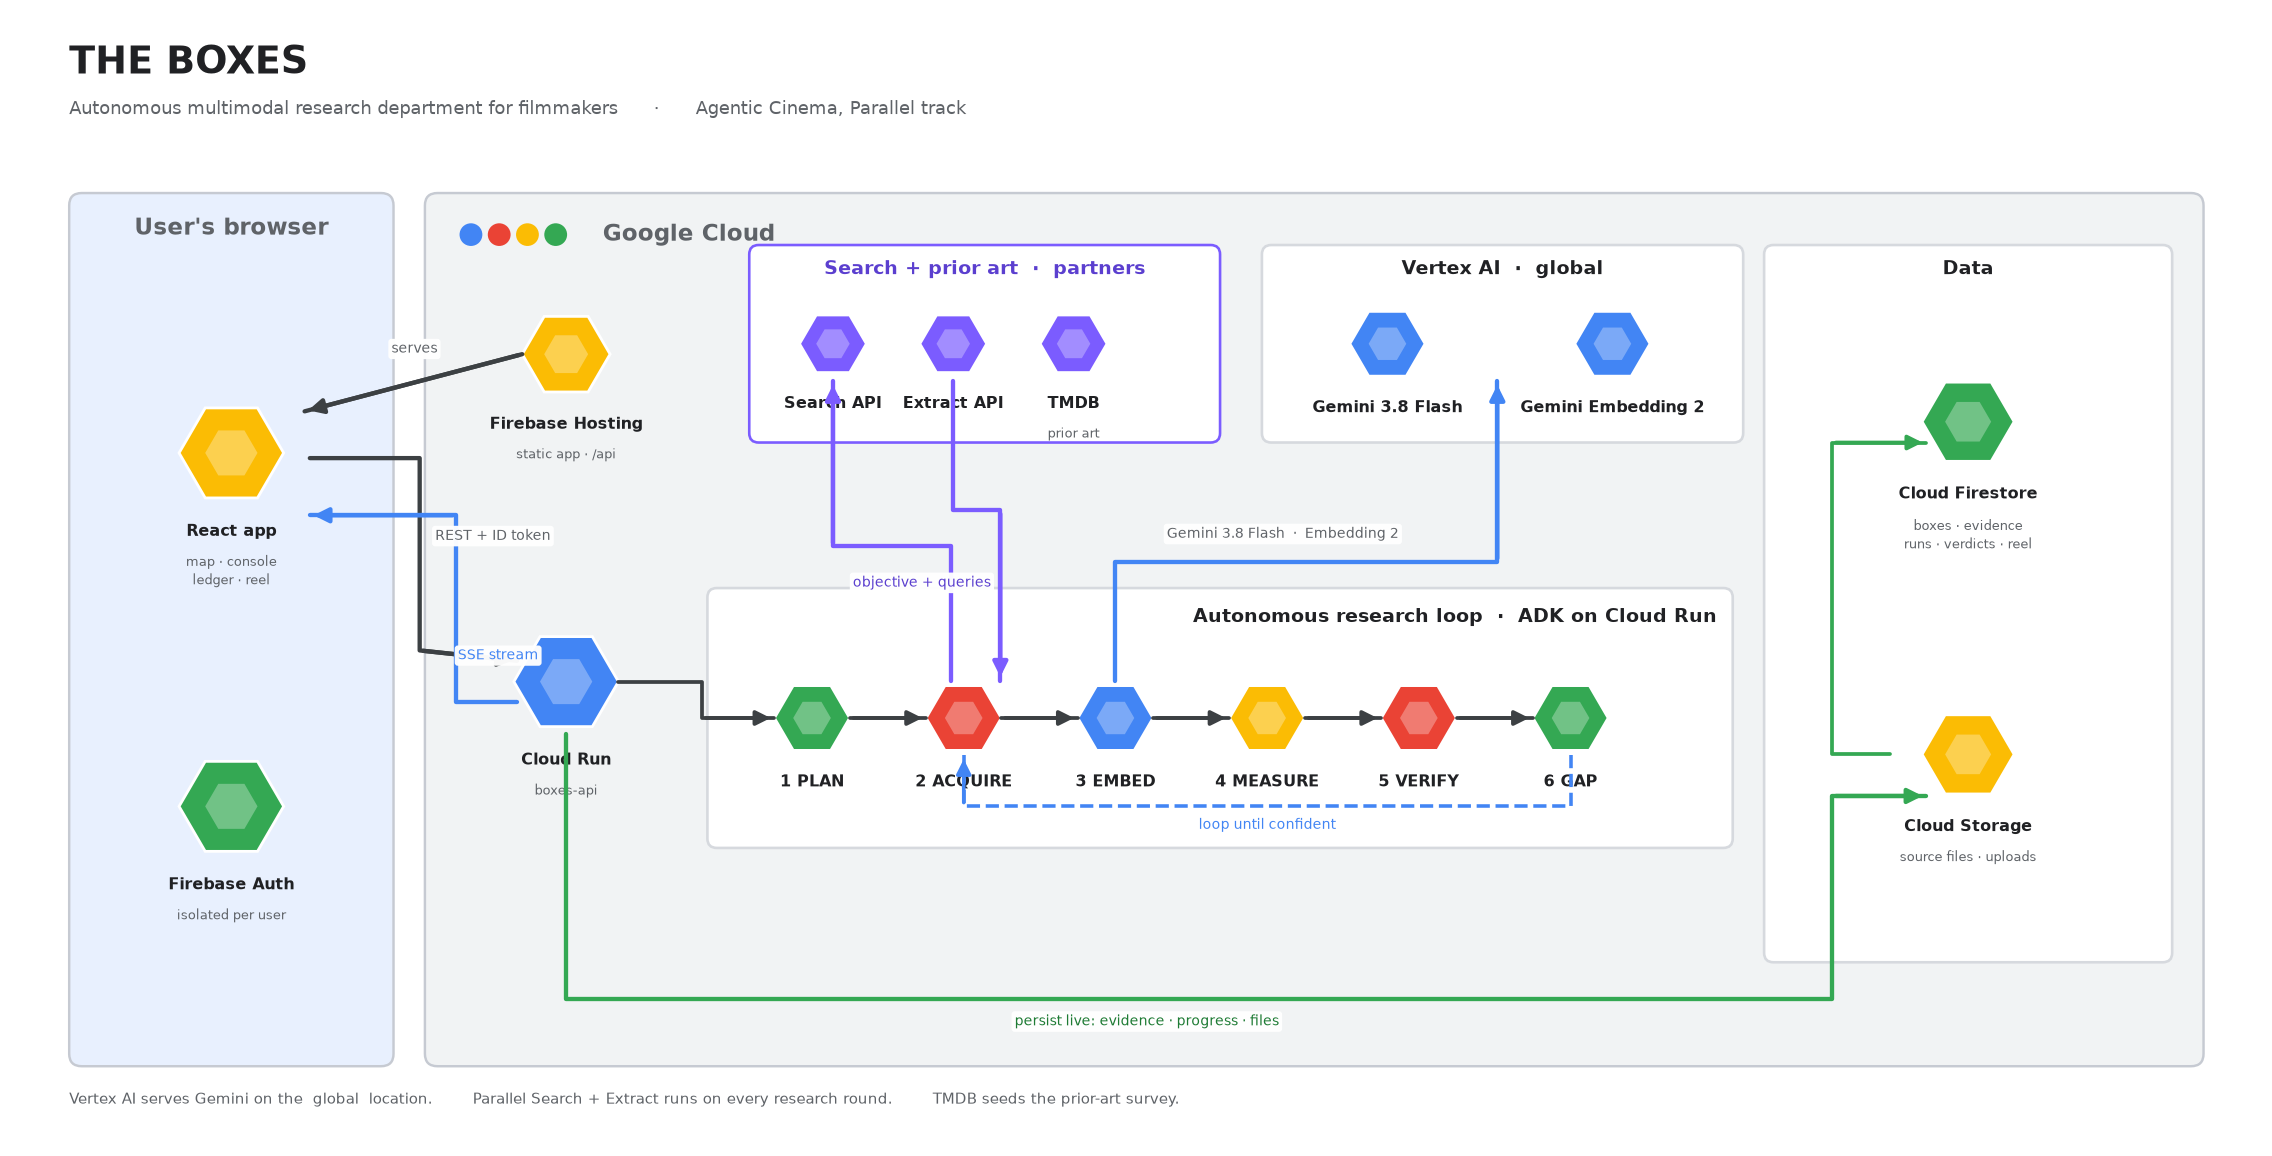
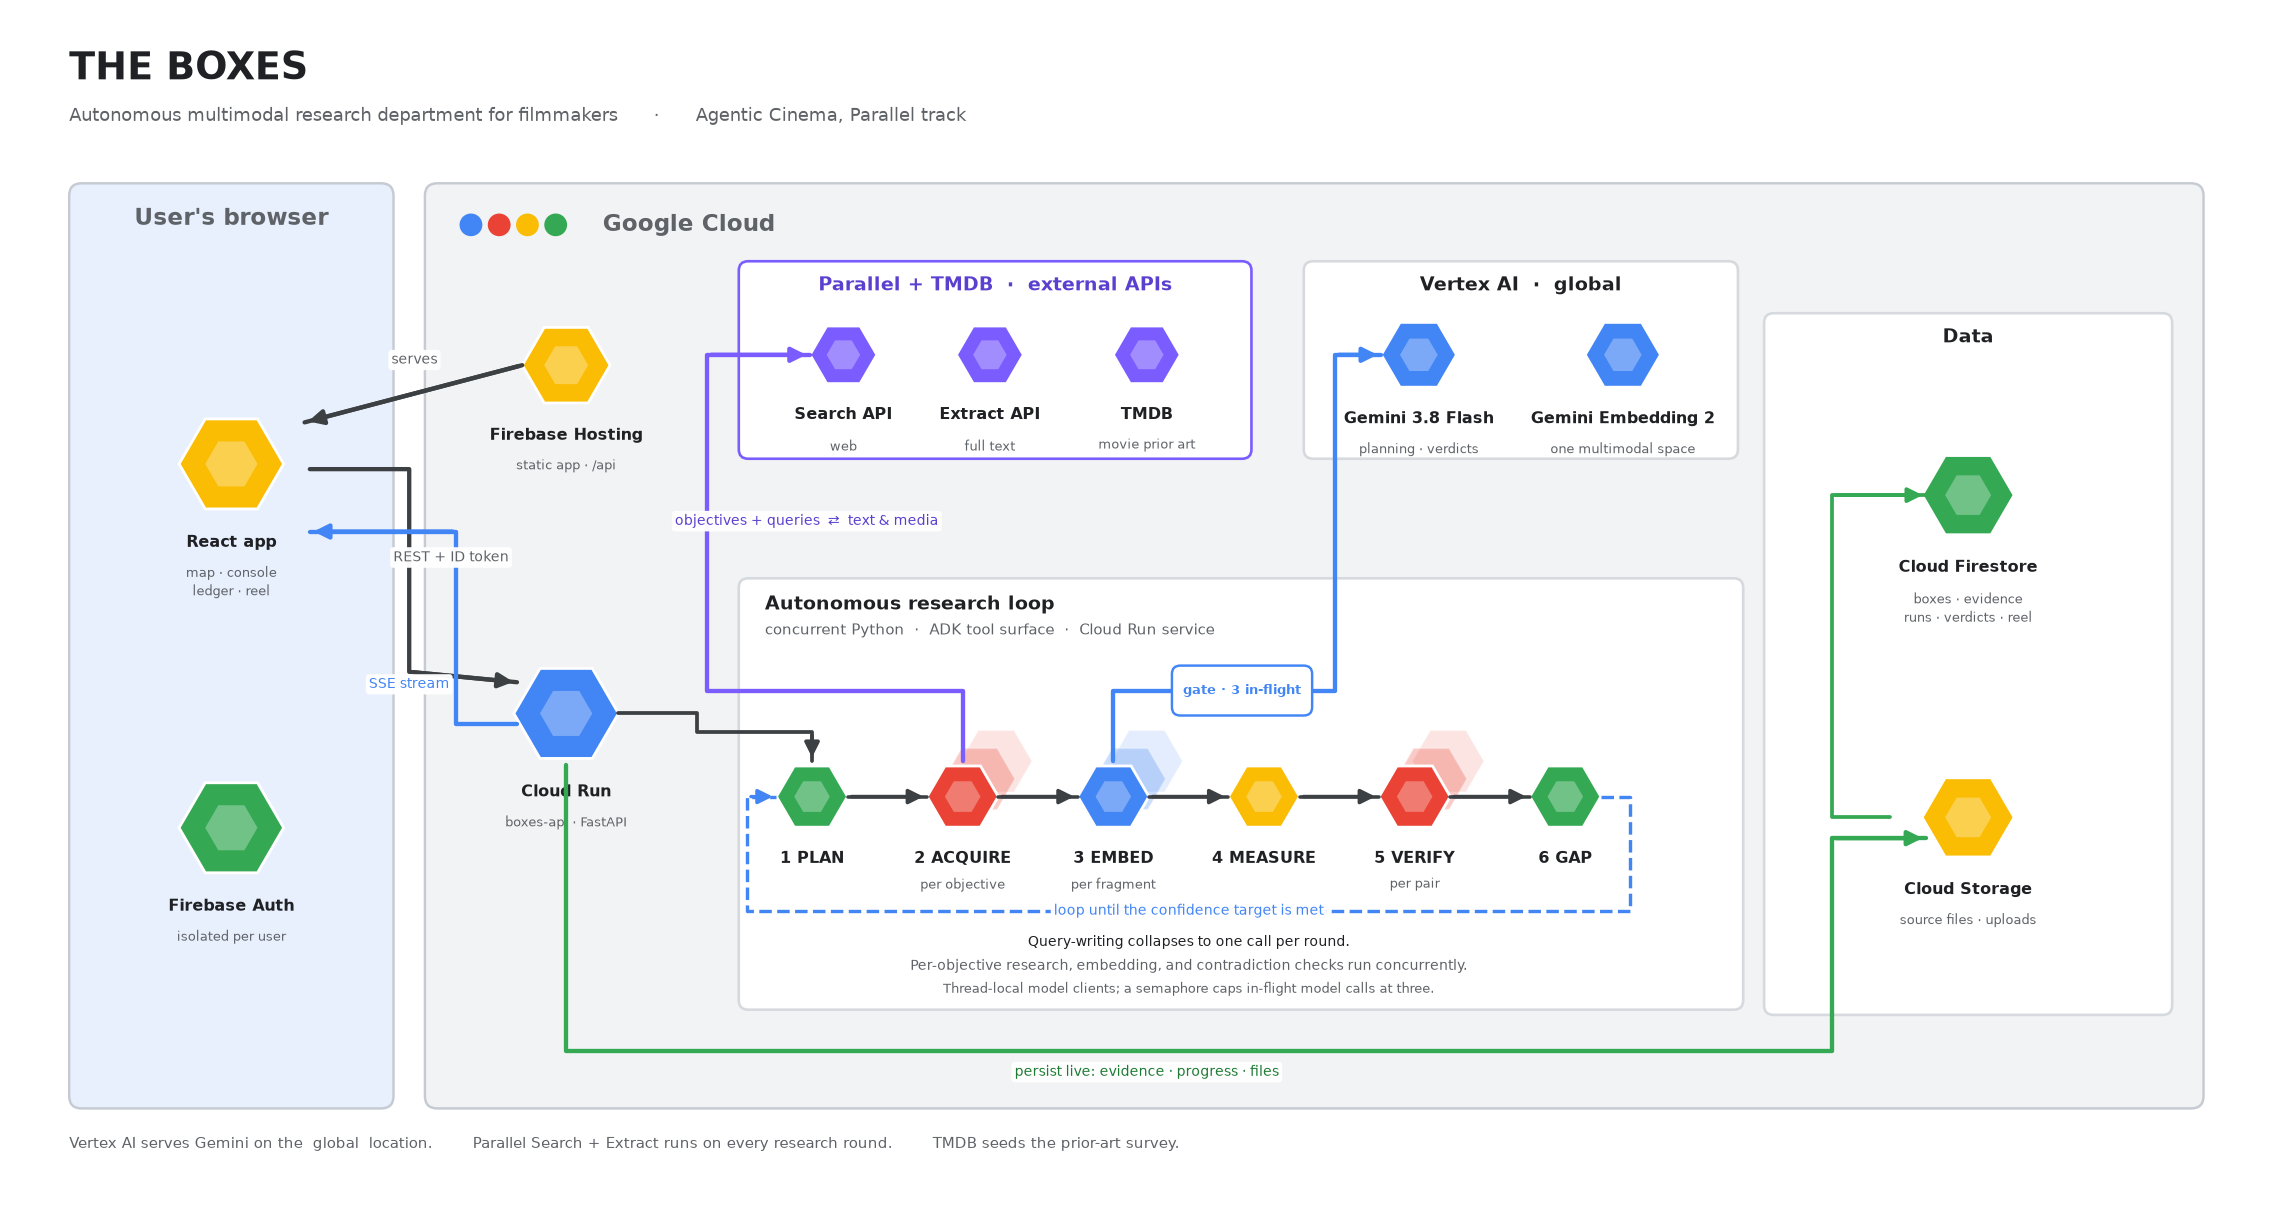
Architecture diagram: TMDB as an external API, and the concurrent harness
- External-APIs cluster now reads "Parallel + TMDB", with TMDB tiled
  alongside Search and Extract and captioned "movie prior art".
- The loop strip shows the concurrency edge: stacked hexes behind
  ACQUIRE / EMBED / VERIFY for per-objective, per-fragment and per-pair
  fan-out, a "gate . 3 in-flight" pill on the Vertex wire for the
  semaphore, and a three-line note (batched query call, concurrent
  research/embedding/verification, thread-local clients).
- Rerouted every riser and label so no arrow crosses text; widened the
  canvas for the added rows. Same content the Devpost "How we built it"
  section describes.

diff --git a/docs/architecture.py b/docs/architecture.py
@@ -11,8 +11,8 @@ PURPLE = "#7B5CFF"
 INK, SUB, WIRE = "#202124", "#5F6368", "#3C4043"
 Z_BLUE, Z_GREY = "#E8F0FE", "#F1F3F4"
 
-fig, ax = plt.subplots(figsize=(21, 10.4), dpi=135)
-ax.set_xlim(0, 21); ax.set_ylim(0, 10.4); ax.axis("off")
+fig, ax = plt.subplots(figsize=(21, 11.0), dpi=135)
+ax.set_xlim(0, 21); ax.set_ylim(0, 11.0); ax.axis("off")
 fig.patch.set_facecolor("white")
 
 
@@ -31,7 +31,8 @@ def zone(x, y, w, h, title, fill, dots=False):
 def cluster(x, y, w, h, title, ec="#D6D9DE", tc=INK):
     ax.add_patch(FancyBboxPatch((x, y), w, h, boxstyle="round,pad=0,rounding_size=0.09",
                                 fc="white", ec=ec, lw=1.4, zorder=3))
-    ax.text(x + w / 2, y + h - 0.28, title, fontsize=10, color=tc, weight="bold", ha="center", zorder=4)
+    if title:
+        ax.text(x + w / 2, y + h - 0.28, title, fontsize=10, color=tc, weight="bold", ha="center", zorder=4)
 
 
 def tile(cx, cy, label, cap=None, color=BLUE, r=0.42):
@@ -43,6 +44,14 @@ def tile(cx, cy, label, cap=None, color=BLUE, r=0.42):
     if cap:
         ax.text(cx, cy - r - 0.46, cap, fontsize=7.0, color=SUB, ha="center", va="top", zorder=7,
                 linespacing=1.4)
+
+
+def ghost(cx, cy, color, r=0.34):
+    """Two translucent hexes stacked behind a tile: this stage fans out across
+    many concurrent workers, one per objective, fragment, or evidence pair."""
+    for k, a in ((2, 0.14), (1, 0.28)):
+        ax.add_patch(RegularPolygon((cx + k * 0.16, cy + k * 0.17), 6, radius=r, orientation=np.pi / 2,
+                                    fc=color, ec="white", lw=1.0, alpha=a, zorder=5))
 
 
 def wire(pts, color=WIRE, lw=2.3, dash=False, text=None, tp=None, tcol=None):
@@ -57,73 +66,96 @@ def wire(pts, color=WIRE, lw=2.3, dash=False, text=None, tp=None, tcol=None):
                 bbox=dict(boxstyle="round,pad=0.22", fc="white", ec="none", alpha=0.97))
 
 
-ax.text(0.3, 10.05, "THE BOXES", fontsize=20, weight="bold", color=INK)
-ax.text(0.3, 9.66, "Autonomous multimodal research department for filmmakers      ·      Agentic Cinema, Parallel track",
+ax.text(0.3, 10.6, "THE BOXES", fontsize=20, weight="bold", color=INK)
+ax.text(0.3, 10.2, "Autonomous multimodal research department for filmmakers      ·      Agentic Cinema, Parallel track",
         fontsize=9.5, color=SUB)
 
-# ── Zone: browser ─────────────────────────────────────────────────────
-zone(0.3, 0.5, 3.1, 8.4, "User's browser", Z_BLUE)
-tile(1.85, 6.4, "React app", "map · console\nledger · reel", color=YELLOW, r=0.5)
-tile(1.85, 3.0, "Firebase Auth", "isolated per user", color=GREEN, r=0.5)
+# -- Zone: browser -----------------------------------------------------
+zone(0.3, 0.7, 3.1, 8.9, "User's browser", Z_BLUE)
+tile(1.85, 6.9, "React app", "map · console\nledger · reel", color=YELLOW, r=0.5)
+tile(1.85, 3.4, "Firebase Auth", "isolated per user", color=GREEN, r=0.5)
 
-# ── Zone: Google Cloud ───────────────────────────────────────────────
-zone(3.7, 0.5, 17.0, 8.4, "Google Cloud", Z_GREY, dots=True)
+# -- Zone: Google Cloud ---------------------------------------------
+zone(3.7, 0.7, 17.0, 8.9, "Google Cloud", Z_GREY, dots=True)
 
 # left column: Hosting + Cloud Run
-tile(5.05, 7.35, "Firebase Hosting", "static app · /api", color=YELLOW, r=0.42)
-tile(5.05, 4.2, "Cloud Run", "boxes-api", color=BLUE, r=0.5)
+tile(5.05, 7.85, "Firebase Hosting", "static app · /api", color=YELLOW, r=0.42)
+tile(5.05, 4.5, "Cloud Run", "boxes-api · FastAPI", color=BLUE, r=0.5)
 
-# top strip: Parallel + TMDB (partners) + Vertex AI
-cluster(6.8, 6.5, 4.5, 1.9, "Search + prior art  ·  partners", ec=PURPLE, tc="#5B3FCF")
-tile(7.6, 7.45, "Search API", color=PURPLE, r=0.32)
-tile(8.75, 7.45, "Extract API", color=PURPLE, r=0.32)
-tile(9.9, 7.45, "TMDB", "prior art", color=PURPLE, r=0.32)
-cluster(11.7, 6.5, 4.6, 1.9, "Vertex AI  ·  global")
-tile(12.9, 7.45, "Gemini 3.8 Flash", color=BLUE, r=0.36)
-tile(15.05, 7.45, "Gemini Embedding 2", color=BLUE, r=0.36)
+# top strip: external APIs + Vertex AI
+cluster(6.7, 6.95, 4.9, 1.9, "Parallel + TMDB  ·  external APIs", ec=PURPLE, tc="#5B3FCF")
+tile(7.7, 7.95, "Search API", "web", color=PURPLE, r=0.32)
+tile(9.1, 7.95, "Extract API", "full text", color=PURPLE, r=0.32)
+tile(10.6, 7.95, "TMDB", "movie prior art", color=PURPLE, r=0.32)
+cluster(12.1, 6.95, 4.15, 1.9, "Vertex AI  ·  global")
+tile(13.2, 7.95, "Gemini 3.8 Flash", "planning · verdicts", color=BLUE, r=0.36)
+tile(15.15, 7.95, "Gemini Embedding 2", "one multimodal space", color=BLUE, r=0.36)
 
-# middle strip: the loop  (title right-aligned, clear of the upward arrows)
-cluster(6.4, 2.6, 9.8, 2.5, "")
-ax.text(16.05, 4.82, "Autonomous research loop  ·  ADK on Cloud Run", fontsize=10, color=INK,
-        weight="bold", ha="right", va="center", zorder=4)
-seq = [("1 PLAN", GREEN), ("2 ACQUIRE", RED), ("3 EMBED", BLUE),
-       ("4 MEASURE", YELLOW), ("5 VERIFY", RED), ("6 GAP", GREEN)]
-lx0, dx, ly = 7.4, 1.45, 3.85
+# -- the loop -----------------------------------------------------
+cluster(6.7, 1.65, 9.6, 4.15, "")
+ax.text(6.95, 5.5, "Autonomous research loop", fontsize=10, color=INK, weight="bold", ha="left", zorder=4)
+ax.text(6.95, 5.26, "concurrent Python  ·  ADK tool surface  ·  Cloud Run service",
+        fontsize=8, color=SUB, ha="left", zorder=4)
+
+seq = [("1 PLAN", GREEN, None), ("2 ACQUIRE", RED, "per objective"), ("3 EMBED", BLUE, "per fragment"),
+       ("4 MEASURE", YELLOW, None), ("5 VERIFY", RED, "per pair"), ("6 GAP", GREEN, None)]
+lx0, dx, ly, R = 7.4, 1.44, 3.7, 0.34
 cxs = [lx0 + i * dx for i in range(6)]
-for cx, (t, col) in zip(cxs, seq):
-    tile(cx, ly, t, color=col, r=0.36)
+mid = (cxs[0] + cxs[-1]) / 2
+for cx, (t, col, sub) in zip(cxs, seq):
+    if sub:
+        ghost(cx, ly, col, r=R)
+    tile(cx, ly, t, color=col, r=R)
+    if sub:
+        ax.text(cx, ly - R - 0.44, sub, fontsize=7.0, color=SUB, ha="center", va="top", zorder=7)
 for a, b in zip(cxs, cxs[1:]):
-    wire([(a + 0.36, ly), (b - 0.36, ly)], lw=2.0)
-wire([(cxs[-1], ly - 0.36), (cxs[-1], 3.0), (cxs[1], 3.0), (cxs[1], ly - 0.36)],
-     color=BLUE, dash=True, lw=1.9, text="loop until confident", tp=((cxs[1] + cxs[-1]) / 2, 2.82), tcol=BLUE)
+    wire([(a + R, ly), (b - R, ly)], lw=1.9)
+
+# entry: Cloud Run -> PLAN, into the top of the row
+wire([(5.55, 4.5), (6.3, 4.5), (6.3, 4.32), (cxs[0], 4.32), (cxs[0], ly + R)], lw=2.0)
+
+# feedback: GAP -> PLAN, routed under the row and clear of every label
+wire([(cxs[5] + R, ly), (cxs[5] + 0.62, ly), (cxs[5] + 0.62, 2.6), (cxs[0] - 0.62, 2.6),
+      (cxs[0] - 0.62, ly), (cxs[0] - R, ly)],
+     color=BLUE, dash=True, lw=1.8, text="loop until the confidence target is met",
+     tp=(mid, 2.6), tcol=BLUE)
+
+# the concurrency note: the current engineering edge, stated plainly
+ax.text(mid, 2.30, "Query-writing collapses to one call per round.",
+        fontsize=7.3, color=INK, ha="center", va="center", zorder=10)
+ax.text(mid, 2.07, "Per-objective research, embedding, and contradiction checks run concurrently.",
+        fontsize=7.3, color=SUB, ha="center", va="center", zorder=10)
+ax.text(mid, 1.85, "Thread-local model clients; a semaphore caps in-flight model calls at three.",
+        fontsize=7.0, color=SUB, ha="center", va="center", zorder=10)
+
+# loop <-> external APIs, one channel left of the clusters
+wire([(cxs[1], ly + R), (cxs[1], 4.72), (6.4, 4.72), (6.4, 7.95), (7.7 - 0.32, 7.95)],
+     color=PURPLE, tcol="#5B3FCF", text="objectives + queries  ⇄  text & media", tp=(7.35, 6.35))
+
+# loop -> Vertex AI, through the in-flight gate
+wire([(cxs[2], ly + R), (cxs[2], 4.72), (12.4, 4.72), (12.4, 7.95), (12.84, 7.95)], color=BLUE)
+ax.add_patch(FancyBboxPatch((10.86, 4.5), 1.3, 0.44, boxstyle="round,pad=0.02,rounding_size=0.08",
+                            fc="white", ec=BLUE, lw=1.3, zorder=9))
+ax.text(11.51, 4.72, "gate · 3 in-flight", fontsize=6.7, color=BLUE, weight="bold",
+        ha="center", va="center", zorder=10)
 
 # right column: Data
-cluster(16.5, 1.5, 3.9, 6.9, "Data")
-tile(18.45, 6.7, "Cloud Firestore", "boxes · evidence\nruns · verdicts · reel", color=GREEN, r=0.44)
+cluster(16.5, 1.6, 3.9, 6.75, "Data")
+tile(18.45, 6.6, "Cloud Firestore", "boxes · evidence\nruns · verdicts · reel", color=GREEN, r=0.44)
 tile(18.45, 3.5, "Cloud Storage", "source files · uploads", color=YELLOW, r=0.44)
 
-# ── flow ─────────────────────────────────────────────────────────────
-wire([(4.63, 7.35), (2.55, 6.8)], text="serves", tp=(3.6, 7.4))
-wire([(2.6, 6.35), (3.65, 6.35), (3.65, 4.5), (4.58, 4.4)], text="REST + ID token", tp=(4.35, 5.6))
-wire([(4.58, 4.0), (4.0, 4.0), (4.0, 5.8), (2.6, 5.8)],
-     color=BLUE, tcol=BLUE, text="SSE stream", tp=(4.4, 4.45))
-wire([(5.55, 4.2), (6.35, 4.2), (6.35, ly), (cxs[0] - 0.36, ly)], lw=2.0)
-
-# loop <-> Parallel (up), both directions
-wire([(cxs[1] - 0.12, ly + 0.36), (cxs[1] - 0.12, 5.5), (7.6, 5.5), (7.6, 7.09)],
-     color=PURPLE, tcol="#5B3FCF", text="objective + queries", tp=(cxs[1] - 0.4, 5.15))
-wire([(8.75, 7.09), (8.75, 5.85), (cxs[1] + 0.35, 5.85), (cxs[1] + 0.35, ly + 0.36)], color=PURPLE)
-
-# loop -> Vertex (one consolidated arrow, routed clear of the title)
-wire([(cxs[2], ly + 0.36), (cxs[2], 5.35), (13.95, 5.35), (13.95, 7.09)], color=BLUE,
-     text="Gemini 3.8 Flash  ·  Embedding 2", tp=(11.9, 5.62))
+# -- browser <-> Cloud Run --------------------------------------
+wire([(4.63, 7.85), (2.55, 7.3)], text="serves", tp=(3.6, 7.9))
+wire([(2.6, 6.85), (3.55, 6.85), (3.55, 4.9), (4.58, 4.8)], text="REST + ID token", tp=(3.95, 6.0))
+wire([(4.58, 4.4), (4.0, 4.4), (4.0, 6.25), (2.6, 6.25)],
+     color=BLUE, tcol=BLUE, text="SSE stream", tp=(3.55, 4.78))
 
 # Cloud Run -> Data (bottom rail; enters the Data tiles on the left, clear of labels)
-wire([(5.05, 3.7), (5.05, 1.15), (17.15, 1.15), (17.15, 3.1), (18.05, 3.1)],
-     color=GREEN, tcol="#1E7B34", text="persist live: evidence · progress · files", tp=(10.6, 0.93))
-wire([(17.7, 3.5), (17.15, 3.5), (17.15, 6.5), (18.05, 6.5)], color=GREEN, lw=2.0)
+wire([(5.05, 4.0), (5.05, 1.25), (17.15, 1.25), (17.15, 3.3), (18.05, 3.3)],
+     color=GREEN, tcol="#1E7B34", text="persist live: evidence · progress · files", tp=(10.6, 1.05))
+wire([(17.7, 3.5), (17.15, 3.5), (17.15, 6.6), (18.05, 6.6)], color=GREEN, lw=2.0)
 
-ax.text(0.3, 0.14, "Vertex AI serves Gemini on the  global  location.        Parallel Search + Extract runs on every "
+ax.text(0.3, 0.32, "Vertex AI serves Gemini on the  global  location.        Parallel Search + Extract runs on every "
         "research round.        TMDB seeds the prior-art survey.", fontsize=8, color=SUB)
 
 plt.savefig("architecture.png", dpi=135, bbox_inches="tight", facecolor="white", pad_inches=0.28)
